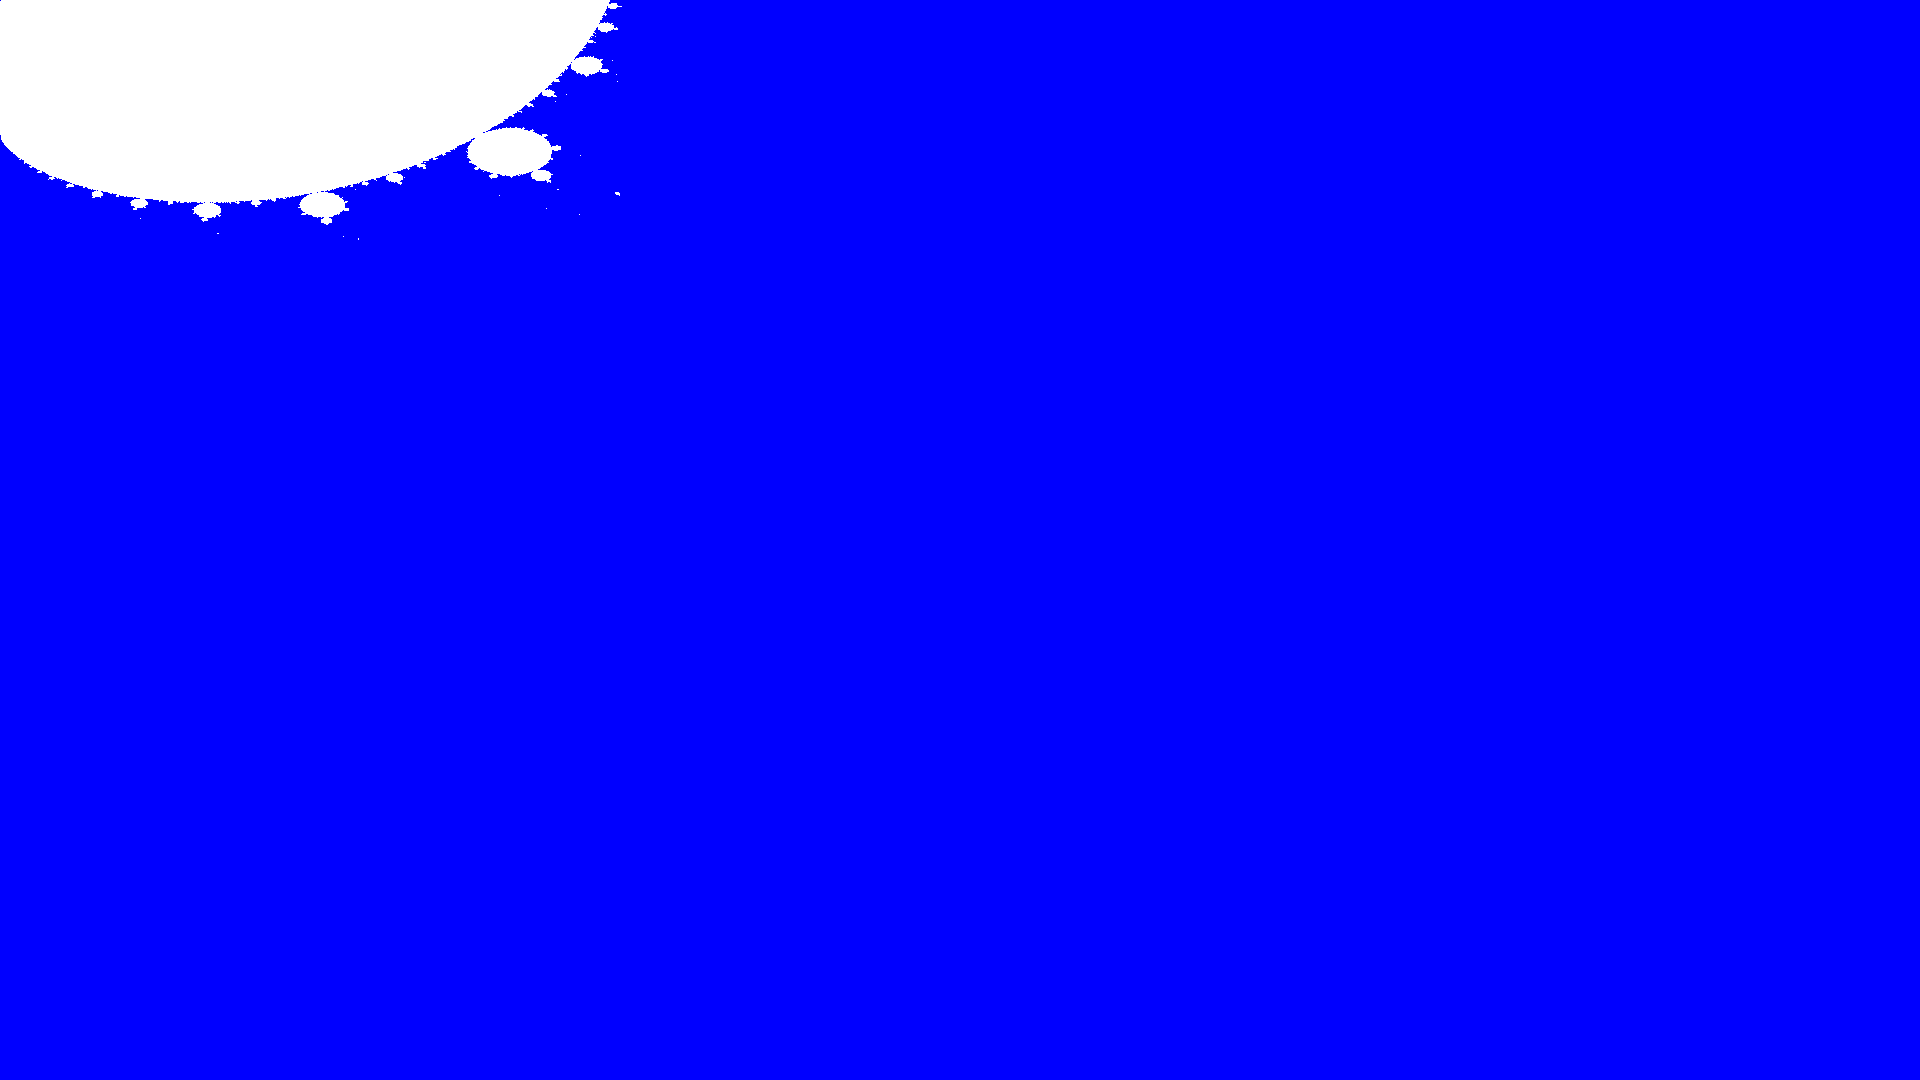
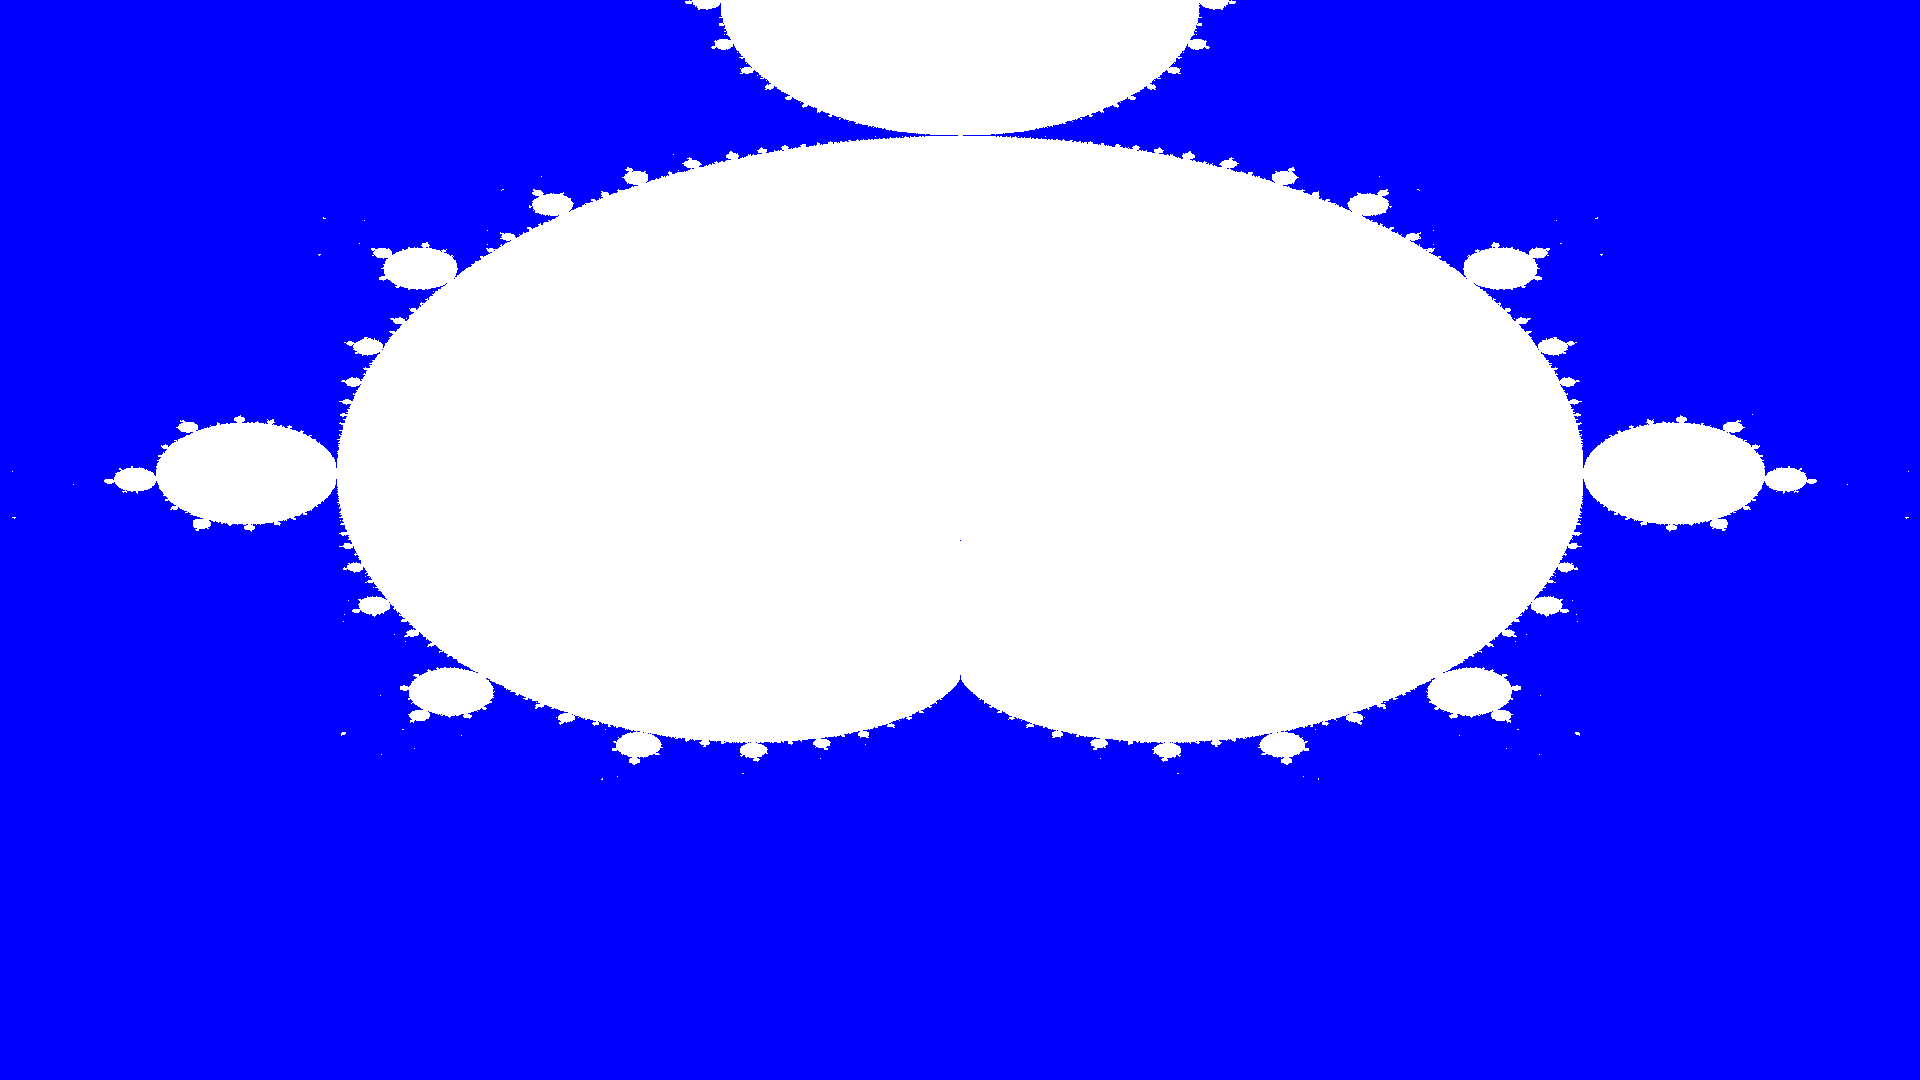
Centered graph

diff --git a/mandelbrot.go b/mandelbrot.go
@@ -31,7 +31,7 @@ func main() {
 
 	for _, i := range grid {
 		//fmt.Printf("Drawing point @ { %v, %v }", int(i.X/2 * 1920),int(i.Y/2 * 1080))
-		img.Set(int(i.X/2 * float64(IMAGE_WIDTH)), int(i.Y/2 * float64(IMAGE_HEIGHT)),color.RGBA{0, 0, 255, 255})
+		img.Set(IMAGE_WIDTH/2 + int(i.X/2 * float64(IMAGE_WIDTH)), IMAGE_HEIGHT/2 + int(i.Y/2 * float64(IMAGE_HEIGHT)),color.RGBA{0, 0, 255, 255})
 	}
 
 	f, _ := os.OpenFile("out.png", os.O_WRONLY|os.O_CREATE, 0600)
